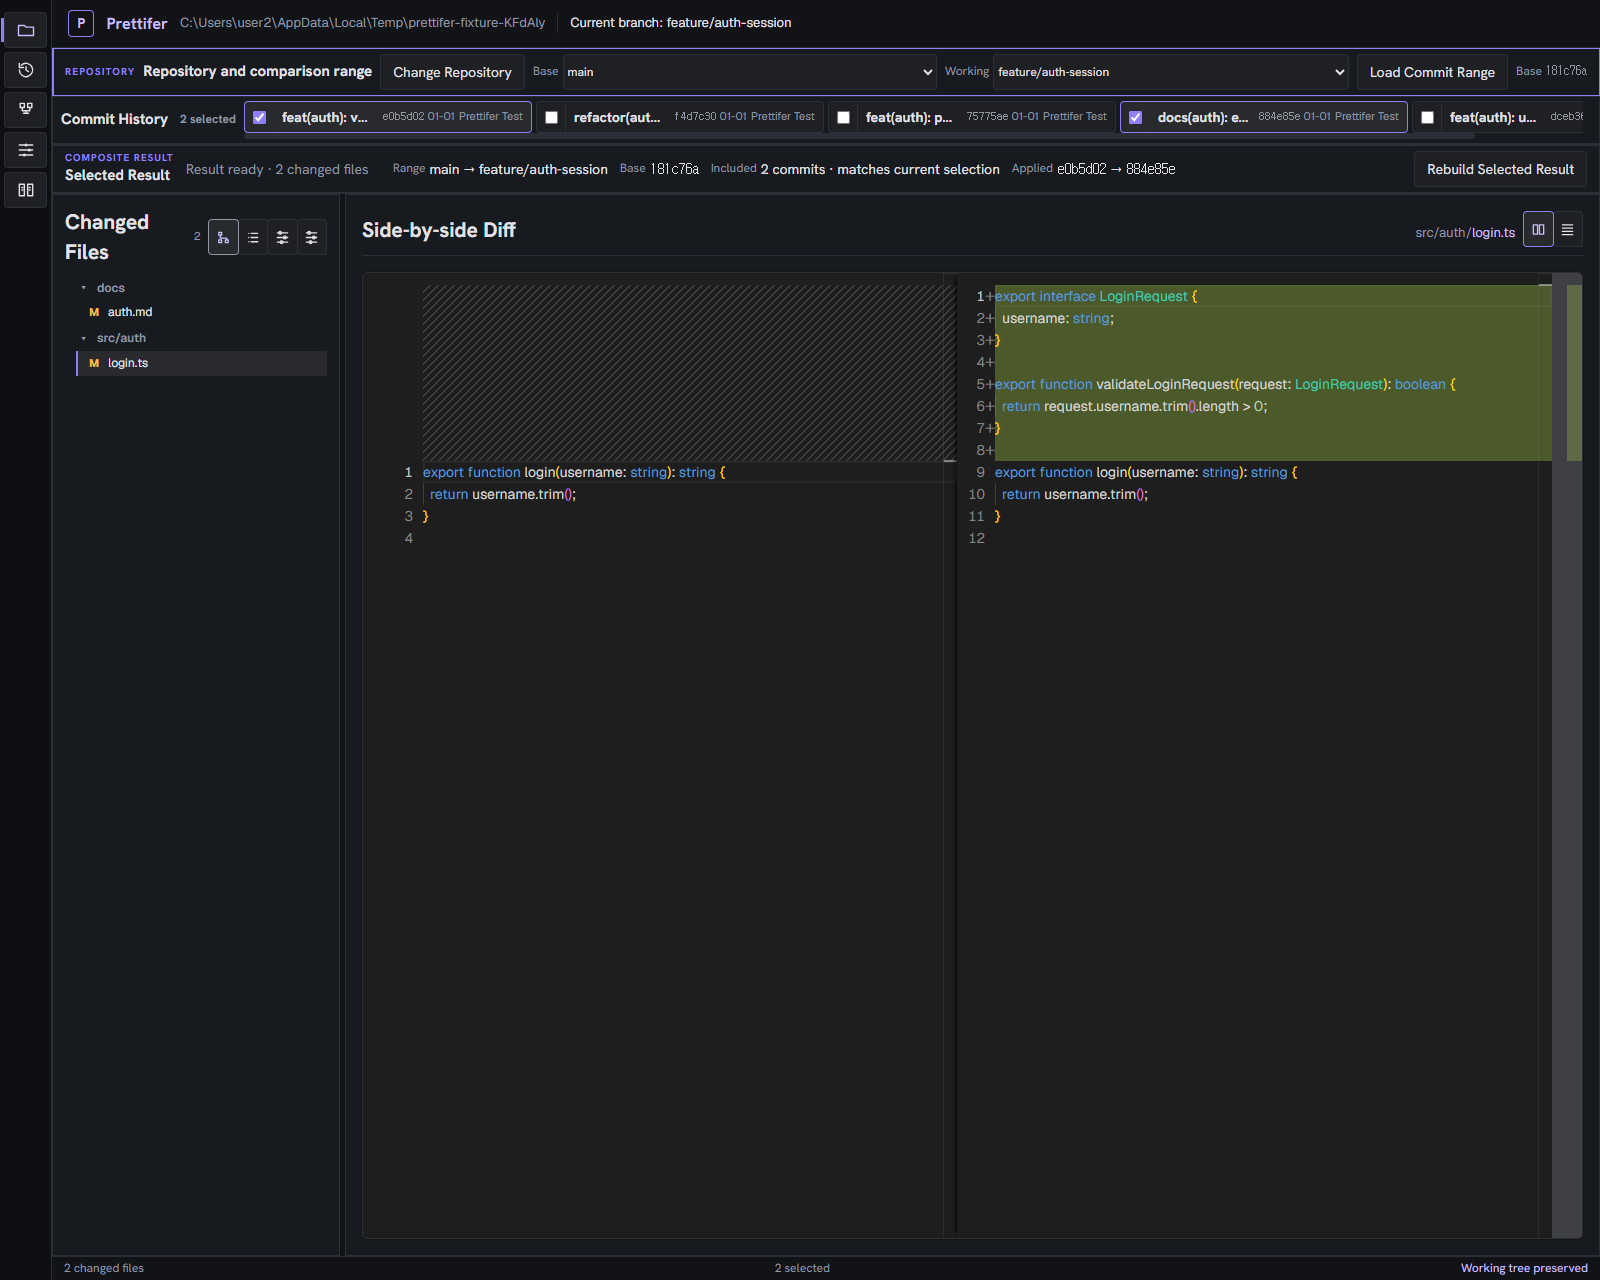
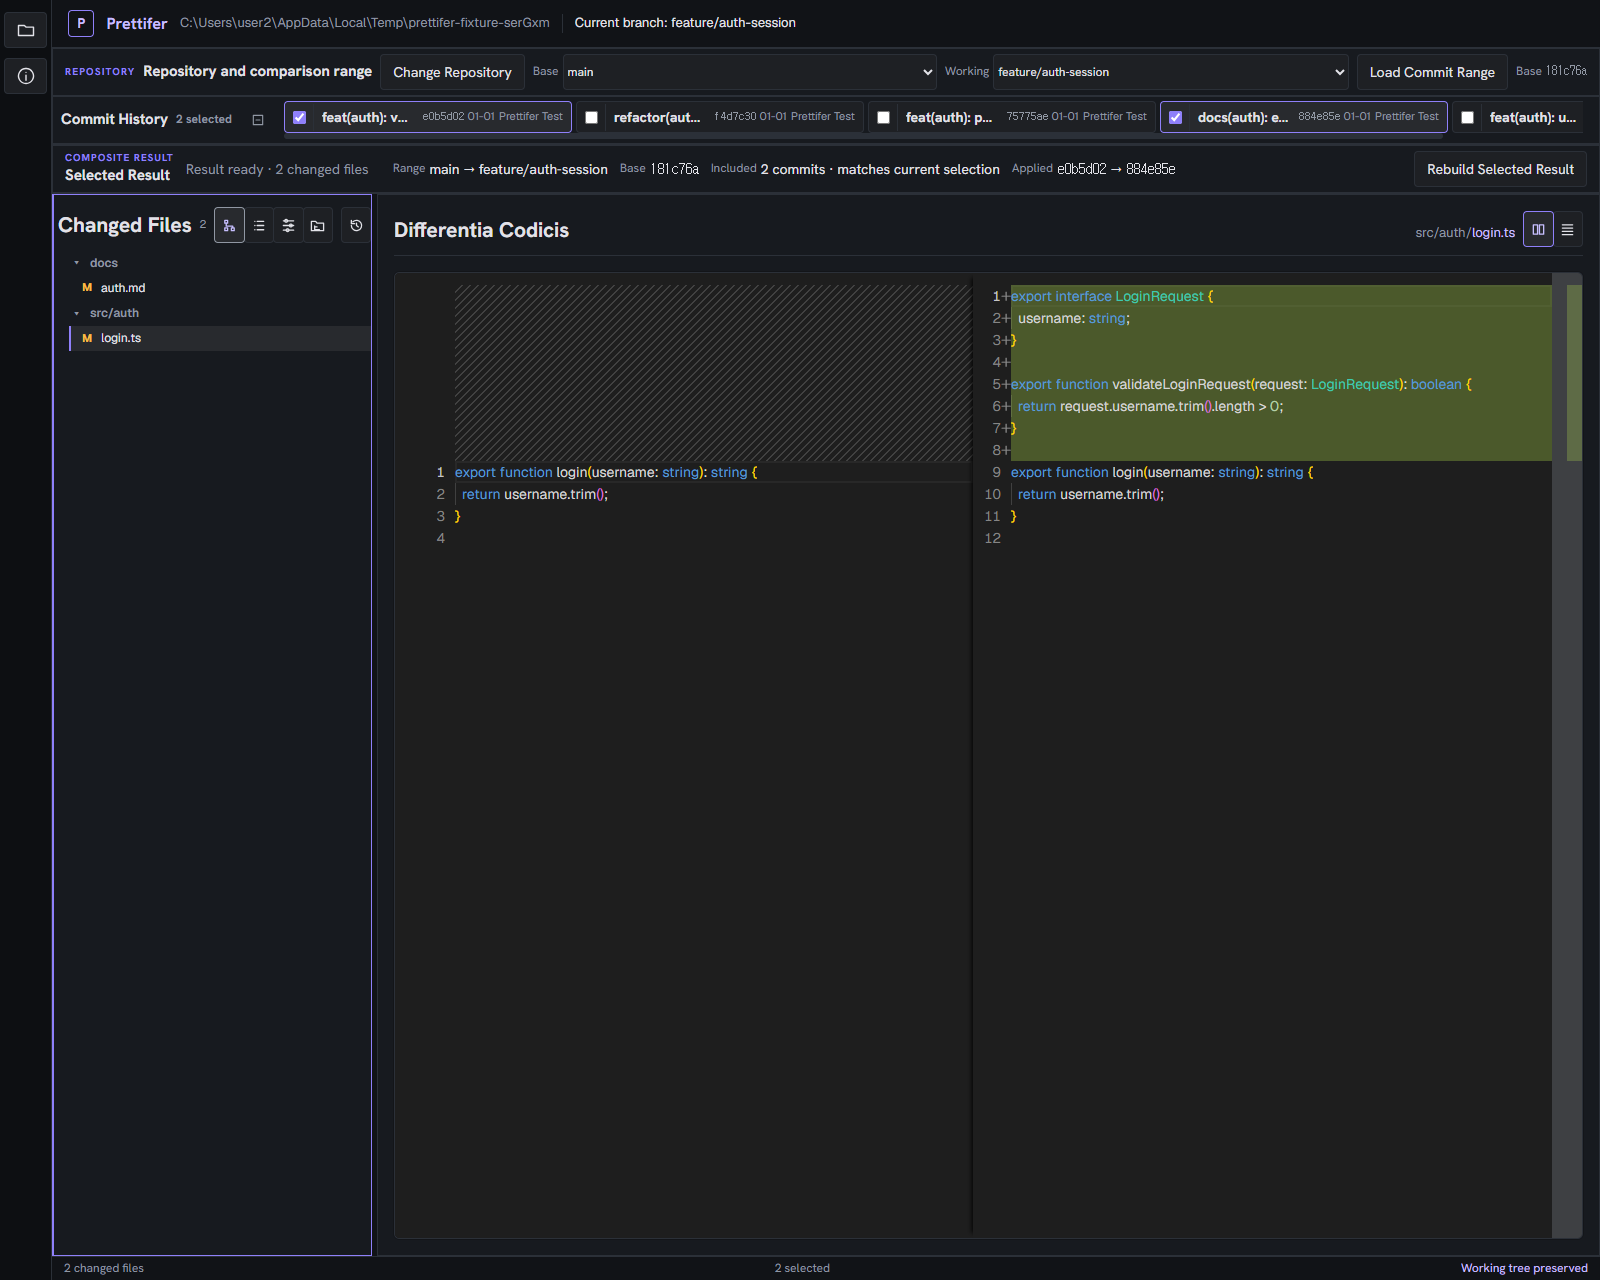
fix: #99 소개 화면 재열기와 변경 파일 머리글 배치 보정
- Escape로 닫힌 뒤 늦게 도착하는 close 보고가 방금 다시 연 소개 화면을 닫던 문제를 고칩니다. cancel을 상태로 받아 닫고, 이미 열려 있는 화면에는 지난 보고를 적용하지 않습니다.

- 이력 컨트롤이 늘어난 Changed Files 머리글이 기본 폭에서 한 줄에 들어오도록 기본 폭을 320px로 넓히고 제목을 한 줄로 유지합니다.

- README 화면 참조 이미지를 새 머리글과 레일 모습으로 다시 만듭니다.

diff --git a/test/e2e/desktop-flow.e2e.ts b/test/e2e/desktop-flow.e2e.ts
@@ -103,7 +103,10 @@ test("opens a repository, selects non-contiguous commits and reviews file diff",
     name: "Read-only diff: docs/auth.md · base and selected result",
   })).toBeVisible();
   await expect(running.page.getByText("Loading diff editor…")).toBeHidden();
-  // The heading names the file under review, which symbol navigation changes.
+  // The heading names the review; its left and right layout is the toggle's job.
+  await expect(running.page.getByRole("heading", { name: "Differentia Codicis" }))
+    .toBeVisible();
+  // The heading row also names the file under review, which navigation changes.
   await expect(reviewedPath(running.page, "docs/auth.md")).toBeVisible();
   const selectedFile = running.page.getByRole("button", {
     name: /Currently viewing file: docs\/auth\.md/u,
@@ -722,23 +725,25 @@ test("opens the selected changed file history and its commit change", async () =
   await running.page.getByRole("button", { name: "Load Commit Range" }).click();
 
   const fileHistory = running.page.getByRole("button", { name: /^File History/u });
-  await expect(fileHistory).toHaveAttribute("aria-disabled", "true");
-  await expect(fileHistory).toHaveAccessibleName(
-    "File History · select a changed file first",
-  );
+  // No result yet, so the panel that holds the control is not on screen either.
+  await expect(fileHistory).toHaveCount(0);
   await running.page.getByRole("checkbox", {
     name: "Include in selected result: refactor(auth): extract credential helpers",
   }).check();
   await running.page.getByRole("button", { name: "Build Selected Result" }).click();
   await expect(running.page.getByText(/Result ready · \d+ changed files/u)).toBeVisible();
+  // A finished result selects its first file, so the control is ready at once.
+  await expect(fileHistory).toHaveAccessibleName("File History");
+  await expect(fileHistory).not.toHaveAttribute("aria-disabled");
   await running.page.getByRole("button", {
     name: /file: src\/auth\/credentials\.ts/u,
   }).click();
-  await expect(fileHistory).not.toHaveAttribute("aria-disabled");
   await fileHistory.focus();
   await fileHistory.press("Enter");
+  const history = running.page.getByRole("region", { name: "File History" });
   await expect(running.page.getByRole("heading", { name: "File History" })).toBeVisible();
-  await expect(running.page.getByText("src/auth/credentials.ts", { exact: true })).toBeVisible();
+  // The path now reads in two places at once: the list and the history heading.
+  await expect(history.getByText("src/auth/credentials.ts", { exact: true })).toBeVisible();
   // The list the file was picked from stays beside the history.
   await expect(running.page.getByRole("region", { name: "Changed Files" })).toBeVisible();
   await expect(running.page.getByRole("button", {
@@ -790,8 +795,11 @@ test("opens the selected changed file history and its commit change", async () =
   await expect(running.page.getByRole("list", { name: "File commits, oldest first" }))
     .toBeVisible();
   await running.page.getByRole("region", { name: "File History" }).press("Escape");
-  await expect(running.page.getByRole("heading", { name: "Differentia Codicis" }))
-    .toBeVisible();
+  await expect(running.page.getByRole("list", { name: "File commits, oldest first" }))
+    .toHaveCount(0);
+  await expect(running.page.getByRole("textbox", {
+    name: /Read-only added file: src\/auth\/credentials\.ts/u,
+  })).toBeVisible();
   await fileHistory.click();
   await expect(running.page.getByRole("list", { name: "File commits, oldest first" }))
     .toBeVisible();
@@ -1114,6 +1122,7 @@ test("opens the Prettifer introduction and closes it with the keyboard", async (
   await expect(about).toBeFocused();
 
   await about.press("Enter");
+
   await expect(dialog).toBeVisible();
   await dialog.getByRole("button", { name: "Close" }).click();
   await expect(dialog).toBeHidden();

diff --git a/src/desktop/renderer/about/AboutPrettifer.tsx b/src/desktop/renderer/about/AboutPrettifer.tsx
@@ -14,11 +14,50 @@ const REPOSITORY_URL = "https://github.com/jjj5306/Prettifer";
 /**
  * What Prettifer is and which build is running. A native dialog carries the modal
  * behaviour the screen needs — the first focus, Escape and returning focus to the
- * control that opened it — so none of that is rebuilt here. Closing always goes
- * through the element, so the one `close` event reports every way out.
+ * control that opened it — so none of that is rebuilt here.
  */
 export const AboutPrettifer = ({ isOpen, appInfo, onClose }: AboutPrettiferProps) => {
   const dialogRef = useRef<HTMLDialogElement>(null);
+  /*
+   * Read through a ref so the listeners below stay attached for the element's
+   * whole life instead of being replaced on every render.
+   */
+  const onCloseRef = useRef(onClose);
+  useEffect(() => { onCloseRef.current = onClose; }, [onClose]);
+
+  useEffect(() => {
+    const dialog = dialogRef.current;
+    if (dialog === null) {
+      return undefined;
+    }
+    /*
+     * Escape is answered here instead of by the element, because the element
+     * closes first and reports it in a later task. Between those two moments the
+     * state would still say the screen is open, and a request to open it again
+     * would change nothing and leave the screen closed for good. Refusing the
+     * element's own close keeps the state the only thing that decides.
+     */
+    const handleCancel = (event: Event): void => {
+      event.preventDefault();
+      onCloseRef.current();
+    };
+    /*
+     * A close the element started anyway still has to reach the state. The report
+     * arrives a task late, so a screen already opened again by then is left alone:
+     * otherwise this stale report would close what the reader just opened.
+     */
+    const handleClose = (): void => {
+      if (!dialog.open) {
+        onCloseRef.current();
+      }
+    };
+    dialog.addEventListener("cancel", handleCancel);
+    dialog.addEventListener("close", handleClose);
+    return () => {
+      dialog.removeEventListener("cancel", handleCancel);
+      dialog.removeEventListener("close", handleClose);
+    };
+  }, []);
 
   useEffect(() => {
     const dialog = dialogRef.current;
@@ -39,7 +78,6 @@ export const AboutPrettifer = ({ isOpen, appInfo, onClose }: AboutPrettiferProps
       ref={dialogRef}
       className={styles.dialog}
       aria-labelledby="about-prettifer-heading"
-      onClose={onClose}
     >
       <h2 id="about-prettifer-heading">About Prettifer</h2>
       <p className={styles.tagline}>
@@ -51,12 +89,7 @@ export const AboutPrettifer = ({ isOpen, appInfo, onClose }: AboutPrettiferProps
         <dt>Repository</dt>
         <dd>{REPOSITORY_URL}</dd>
       </dl>
-      <button
-        type="button"
-        onClick={() => { dialogRef.current?.close(); }}
-      >
-        Close
-      </button>
+      <button type="button" onClick={onClose}>Close</button>
     </dialog>
   );
 };

diff --git a/test/desktop/renderer/accessibility/workspace-accessibility.test.tsx b/test/desktop/renderer/accessibility/workspace-accessibility.test.tsx
@@ -134,7 +134,7 @@ describe("desktop workspace accessibility", () => {
     const separator = screen.getByRole("separator", { name: "Resize Changed Files" });
     separator.focus();
     await user.keyboard("{ArrowRight}{ArrowRight}");
-    expect(separator).toHaveAttribute("aria-valuenow", "320");
+    expect(separator).toHaveAttribute("aria-valuenow", "352");
 
     await user.click(screen.getByRole("button", { name: "Tree View" }));
     await user.click(screen.getByRole("button", {
@@ -142,7 +142,7 @@ describe("desktop workspace accessibility", () => {
     }));
 
     expect(screen.getByRole("separator", { name: "Resize Changed Files" }))
-      .toHaveAttribute("aria-valuenow", "320");
+      .toHaveAttribute("aria-valuenow", "352");
     expect(controller.selectFile).toHaveBeenCalledWith("src/app.ts");
   });
 
@@ -168,14 +168,14 @@ describe("desktop workspace accessibility", () => {
     screen.getByRole("separator", { name: "Resize Changed Files" }).focus();
     await user.keyboard("{ArrowRight}");
     expect(screen.getByRole("separator", { name: "Resize Changed Files" }))
-      .toHaveAttribute("aria-valuenow", "304");
+      .toHaveAttribute("aria-valuenow", "336");
 
     rerender(<StrictMode><DesktopWorkspace controller={rebuilding} /></StrictMode>);
     expect(screen.queryByRole("separator", { name: "Resize Changed Files" })).toBeNull();
 
     rerender(<StrictMode><DesktopWorkspace controller={ready} /></StrictMode>);
     expect(screen.getByRole("separator", { name: "Resize Changed Files" }))
-      .toHaveAttribute("aria-valuenow", "304");
+      .toHaveAttribute("aria-valuenow", "336");
   });
 
   it("does not offer the review pane splitter before a result exists", () => {
@@ -183,6 +183,7 @@ describe("desktop workspace accessibility", () => {
 
     expect(screen.queryByRole("separator", { name: "Resize Changed Files" })).toBeNull();
   });
+
   it("opens the introduction from the rail and leaves the review untouched", async () => {
     const user = userEvent.setup();
     const controller = createController(true);

diff --git a/src/desktop/renderer/diff/DiffPane.tsx b/src/desktop/renderer/diff/DiffPane.tsx
@@ -198,7 +198,7 @@ export const DiffPane = ({
       if (target.kind === "diff" && compositeViewKey !== null) {
         const savedState = adapter?.saveViewState?.();
         if (savedState != null) {
-          compositeViewStates.set(compositeViewKey, savedState);
+          rememberCompositeView(repositorySessionId, compositeViewKey, savedState);
         }
       }
       adapter?.dispose();
@@ -433,6 +433,23 @@ const LayoutIcon = ({ view }: Readonly<{ view: DiffView }>) => (
     )}
   </svg>
 );
+
+/**
+ * Keeps the position of the file just left, and drops the ones belonging to a
+ * repository session that has ended: those can never be restored again.
+ */
+function rememberCompositeView(
+  repositorySessionId: string,
+  key: string,
+  state: object,
+): void {
+  for (const stored of compositeViewStates.keys()) {
+    if (!stored.startsWith(`${repositorySessionId}:`)) {
+      compositeViewStates.delete(stored);
+    }
+  }
+  compositeViewStates.set(key, state);
+}
 
 /**
  * Escape steps back from a file-history change to the list it was opened from.

diff --git a/test/desktop/renderer/about/about-prettifer.test.tsx b/test/desktop/renderer/about/about-prettifer.test.tsx
@@ -42,7 +42,19 @@ describe("AboutPrettifer", () => {
     expect(within(dialog).getByText("https://github.com/jjj5306/Prettifer")).toBeVisible();
   });
 
-  it("reports every way out through the dialog's own close", () => {
+  it("answers Escape through the state instead of letting the element close first", () => {
+    const { onClose, dialog } = renderAbout(readyInfo);
+
+    const cancel = new Event("cancel", { cancelable: true });
+    dialog.dispatchEvent(cancel);
+
+    // The element reports its own close in a later task, which would leave the
+    // state open and swallow the next request to open the screen.
+    expect(cancel.defaultPrevented).toBe(true);
+    expect(onClose).toHaveBeenCalledOnce();
+  });
+
+  it("reports a close the element started anyway", () => {
     const { onClose, dialog } = renderAbout(readyInfo);
 
     // Escape is the browser's, and it ends in the same event as the control.

diff --git a/src/desktop/renderer/DesktopWorkspace.tsx b/src/desktop/renderer/DesktopWorkspace.tsx
@@ -35,7 +35,12 @@ const CHANGED_FILES_WIDTH_LIMITS: PaneWidthLimits = {
   maximum: 720,
   minimumRemaining: 384,
 };
-const DEFAULT_CHANGED_FILES_WIDTH = 288;
+/*
+ * Wide enough that the panel heading, the file count and the five header controls
+ * sit on one line at the width the workbench opens with. The user can still drag
+ * it narrower, where the heading gives way before the controls do.
+ */
+const DEFAULT_CHANGED_FILES_WIDTH = 320;
 
 interface DesktopWorkspaceProps {
   readonly controller: AppController;

diff --git a/src/desktop/renderer/files/ChangedFilePane.module.css b/src/desktop/renderer/files/ChangedFilePane.module.css
@@ -51,6 +51,13 @@
   margin: 0;
 }
 
+/* One line, so a narrow panel clips the heading instead of stacking two words. */
+.title h2 {
+  overflow: hidden;
+  text-overflow: ellipsis;
+  white-space: nowrap;
+}
+
 .title span {
   color: var(--color-muted);
   font-family: var(--font-code);

diff --git a/openspec/changes/simplify-workbench-navigation/specs/file-history/spec.md b/openspec/changes/simplify-workbench-navigation/specs/file-history/spec.md
@@ -3,9 +3,9 @@
 ### Requirement: 선택 파일 이력 진입점
 시스템은 선택 파일의 커밋 이력을 여는 File History 컨트롤을 `Changed Files` 머리글의
 보기 토글 옆에 제공해야 한다(MUST). 이 컨트롤은 보기 토글과 구분되는 컨트롤이어야 하며
-(MUST), 보이는 이름과 동작 설명을 제공해야 한다(MUST). 선택 결과가 없거나 파일을
-선택하지 않았으면 사용할 수 없는 상태로 표시하고 필요한 선행 조건을 안내해야 한다
-(MUST). 이력을 여는 동안 `Changed Files` 목록은 계속 표시해야 한다(MUST).
+(MUST), 보이는 이름과 동작 설명을 제공해야 한다(MUST). 파일을 선택하지 않았으면 사용할
+수 없는 상태로 표시하고 필요한 선행 조건을 안내해야 한다(MUST). 이력을 여는 동안
+`Changed Files` 목록은 계속 표시해야 한다(MUST).
 
 #### Scenario: 이력 열기 컨트롤 위치
 - **WHEN** 선택 결과의 `Changed Files` 패널이 표시된다
@@ -19,10 +19,14 @@
 - **THEN** 통합 대상 커밋 선택은 변경되지 않는다
 
 #### Scenario: 선택하지 않은 상태의 이력 컨트롤
-- **WHEN** 선택 결과가 없거나 `Changed Files`에서 파일을 선택하지 않았다
+- **WHEN** 선택 결과가 준비되고 `Changed Files`에서 파일을 선택하지 않았다
 - **THEN** File History 컨트롤은 사용할 수 없는 상태로 표시된다
 - **THEN** 사용자는 파일을 선택해야 한다는 조건을 확인할 수 있다
 - **THEN** 컨트롤을 실행해도 검토 영역과 포커스 대상은 변경되지 않는다
+
+#### Scenario: 선택 결과가 없는 상태
+- **WHEN** 선택 결과가 아직 만들어지지 않았다
+- **THEN** `Changed Files` 패널과 함께 File History 컨트롤도 표시되지 않는다
 
 #### Scenario: 키보드로 이력 열기
 - **WHEN** 사용자가 Tab으로 File History 컨트롤에 포커스하고 Enter 또는 Space를 누른다
@@ -52,7 +56,7 @@
 
 #### Scenario: 선택 파일이 없는 상태
 - **WHEN** 선택한 파일이 없거나 통합 결과가 준비되지 않았다
-- **THEN** 시스템은 `Changed Files` 머리글의 File History 컨트롤을 실행 가능한 상태로 표시하지 않는다
+- **THEN** 시스템은 File History를 실행할 수 있는 상태로 표시하지 않는다
 
 ### Requirement: 지연 조회와 페이지 추가
 시스템은 사용자가 File History를 열 때 선택 파일 이력을 처음 조회해야 하며(MUST),
